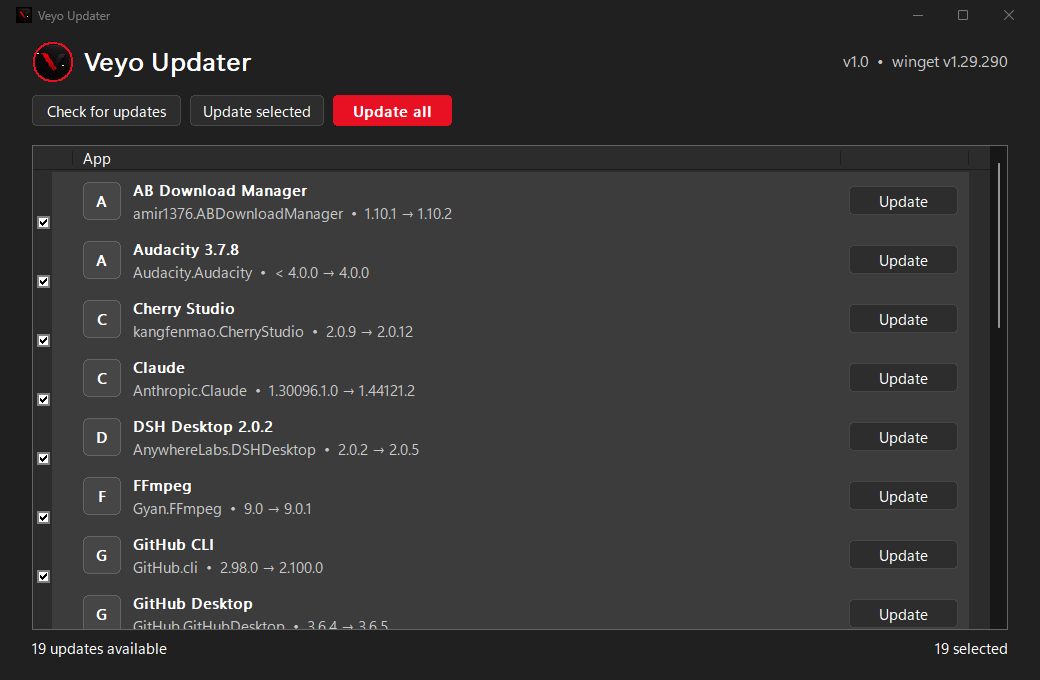
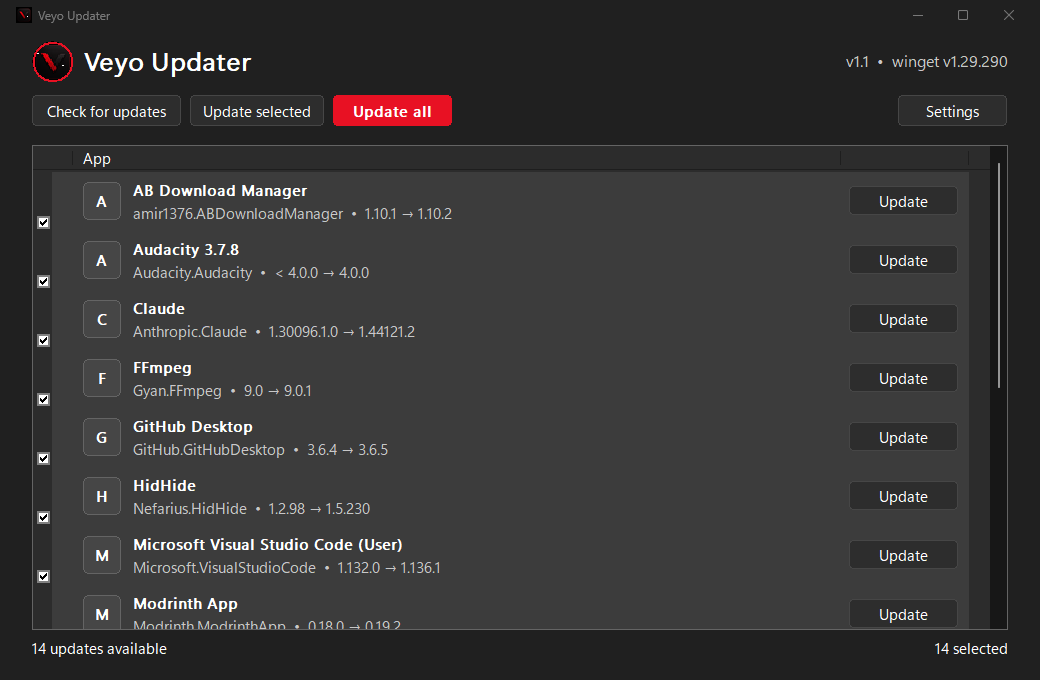
v1.1.0: Settings (timers, auto-shutdown), security hardening
- Settings dialog: download timer countdown, auto-check interval, finish action (nothing/close/shutdown), portable INI

- Security: unpredictable elevated-log names (symlink-safe), strict package-id allowlist, IniPath fallback, winget-missing warning

- Version 1.1.0

diff --git a/native/src/main.cpp b/native/src/main.cpp
@@ -11,6 +11,7 @@
 #include <uxtheme.h>
 #include <windowsx.h>
 #include <shellapi.h>
+#include "../resources/resource.h"
 #include <string>
 #include <vector>
 #include <algorithm>
@@ -19,6 +20,7 @@
 #include <iomanip>
 #include <regex>
 #include <cmath>
+#include <stdlib.h>
 
 #pragma comment(lib, "comctl32.lib")
 #pragma comment(lib, "dwmapi.lib")
@@ -97,7 +99,7 @@ struct Package {
     bool checked = true;
 };
 
-HWND hMain, hList, hRefresh, hUpgradeAll, hUpgradeSel, hStatus, hProgress, hCount;
+HWND hMain, hList, hRefresh, hUpgradeAll, hUpgradeSel, hStatus, hProgress, hCount, hSettings;
 HICON hAppIcon = nullptr;
 static void FitLastColumn();
 struct JobItem { std::wstring id, name; };
@@ -116,7 +118,7 @@ static int g_pendingRows = 0; // cascade insert progress
 static int g_spinAngle = 0; // loading spinner angle
 static HIMAGELIST g_hRowImg = nullptr; // forces tall Store-like rows
 struct BtnAnim { HWND hw = nullptr; float v = 0, target = 0; }; // v: 0 normal, 1 hover, 2 pressed
-static BtnAnim g_btns[3];
+static BtnAnim g_btns[4];
 static int g_rowBtnRow = -1; // list row whose Update button is fading
 static float g_rowBtnV = 0, g_rowBtnTarget = 0;
 
@@ -304,30 +306,45 @@ void SetLoading(bool b){
         if(g_packages.empty()) SetWindowTextW(hStatus,L"All apps are up to date");
         else { wchar_t t[64]; swprintf_s(t,L"%d updates available",(int)g_packages.size()); SetWindowTextW(hStatus,t); }
     }
-    if(b){ SendMessage(hProgress,PBM_SETMARQUEE,1,30); SetTimer(hMain,2,30,nullptr); }
+    if(b){ SendMessage(hProgress,PBM_SETMARQUEE,1,30); SetTimer(hMain,2,30,nullptr); KillTimer(hMain,5); }
     else { SendMessage(hProgress,PBM_SETMARQUEE,0,0); KillTimer(hMain,2); }
 }
 
 // Threads
 void DoCheck(){
     PostMessage(hMain, WM_APP+3, 0, 0); // loading UI on UI thread (never touch HWND from worker)
+    std::wstring ver = RunWinget(L"--version");
+    Trim(ver);
     std::wstring out = RunWinget(L"upgrade --accept-source-agreements");
     auto pkgs = ParseWingetOutput(out);
     // UI thread
     PostMessage(hMain, WM_APP+1, (WPARAM)new std::vector<Package>(pkgs), 0);
+    if (ver.empty())
+        PostMessage(hMain, WM_APP+7, 0, (LPARAM)new std::wstring(L"winget not found — install App Installer from the Microsoft Store."));
 }
 // ---- Elevated upgrade with live progress ----
 // winget needs admin for most upgrades: launch elevated via ShellExecuteEx "runas"
 // writing to a temp log, then tail that log for live stage/percent updates.
-static std::wstring LogPathFor(const std::wstring& id) {
+// Unpredictable per-run log name: a fixed %TEMP% name would let another local
+// user pre-plant a symlink and redirect the ELEVATED winget output anywhere.
+static std::wstring LogPathFor() {
     wchar_t tmp[MAX_PATH]; GetTempPathW(MAX_PATH, tmp);
-    std::wstring safe;
+    ULONGLONG r = ((ULONGLONG)GetCurrentProcessId() << 32) ^ GetTickCount64() ^ ((ULONGLONG)rand() << 48);
+    static volatile LONG ctr = 0;
+    r ^= (ULONGLONG)InterlockedIncrement(&ctr) * 0x9E3779B97F4A7C15ULL;
+    wchar_t rnd[32];
+    swprintf_s(rnd, L"%016llX", r);
+    return std::wstring(tmp) + L"veyo-updater-" + rnd + L".log";
+}
+
+// Strict allowlist for winget package ids: the id reaches an elevated
+// `cmd /c winget ...` line, so anything outside [A-Za-z0-9._-] is refused.
+static bool IsValidPackageId(const std::wstring& id) {
+    if (id.empty() || id.size() > 128) return false;
     for (auto c : id) {
-        if ((c >= L'0' && c <= L'9') || (c >= L'A' && c <= L'Z') || (c >= L'a' && c <= L'z') || c == L'.' || c == L'_' || c == L'-') safe += c;
-        else safe += L'_';
+        if (!((c >= L'0' && c <= L'9') || (c >= L'A' && c <= L'Z') || (c >= L'a' && c <= L'z') || c == L'.' || c == L'_' || c == L'-')) return false;
     }
-    if (safe.empty()) safe = L"all";
-    return std::wstring(tmp) + L"veyo-updater-" + safe + L".log";
+    return true;
 }
 
 static bool LaunchElevated(const std::wstring& wingetArgs, const std::wstring& logPath, HANDLE& hProc) {
@@ -424,7 +441,11 @@ static bool TailLogFile(HANDLE hProc, const std::wstring& logPath) {
 }
 
 static bool DoOneUpgrade(const std::wstring& id, const std::wstring& name, std::wstring& err) {
-    std::wstring log = LogPathFor(id == L"ALL" ? L"all" : id);
+    if (id != L"ALL" && !IsValidPackageId(id)) {
+        err = L"Refused to upgrade \"" + name + L"\": unexpected package id.";
+        return false;
+    }
+    std::wstring log = LogPathFor();
     DeleteFileW(log.c_str());
     std::wstring args;
     if (id == L"ALL") args = L"upgrade --all --silent --accept-package-agreements --accept-source-agreements --disable-interactivity";
@@ -536,7 +557,7 @@ static COLORREF BlendC(COLORREF a, COLORREF b, float t) {
 // Command-button hover/press fade driver
 static LRESULT CALLBACK BtnSubclass(HWND h, UINT m, WPARAM w, LPARAM l, UINT_PTR id, DWORD_PTR) {
     int idx = (int)id - 10;
-    if (idx >= 0 && idx < 3) {
+    if (idx >= 0 && idx < 4) {
         if (m == WM_MOUSEMOVE) {
             if (IsWindowEnabled(h) && g_btns[idx].target < 1.0f) { g_btns[idx].target = 1.0f; StartAnimTimer(); }
             TRACKMOUSEEVENT tme{ sizeof(tme), TME_LEAVE, h, 0 };
@@ -667,6 +688,114 @@ static void FitLastColumn() {
     }
 }
 
+// ---- Portable settings (VeyoUpdater.ini next to the exe) ----
+struct AppSettings {
+    bool autoUpdate = false;  // start updating automatically after countdown
+    int countdownSec = 60;    // download timer, seconds
+    bool autoCheck = false;   // check for updates periodically
+    int checkMinutes = 60;    // auto-check interval, minutes
+    int finishAction = 0;     // 0 nothing, 1 close app, 2 shut down PC
+};
+static AppSettings g_cfg;
+static int g_countdown = 0;
+static bool g_justUpgraded = false;
+
+static std::wstring IniPath() {
+    wchar_t p[MAX_PATH];
+    DWORD n = GetModuleFileNameW(nullptr, p, MAX_PATH);
+    std::wstring s;
+    if (n == 0 || n >= MAX_PATH) {
+        wchar_t t[MAX_PATH]; GetTempPathW(MAX_PATH, t);
+        s = t; // absurdly long exe path fallback: per-user temp dir
+    } else {
+        s = std::wstring(p, n);
+    }
+    size_t d = s.find_last_of(L"\\/");
+    return (d == std::wstring::npos ? s : s.substr(0, d + 1)) + L"VeyoUpdater.ini";
+}
+static void LoadSettings() {
+    std::wstring ini = IniPath();
+    g_cfg.autoUpdate = GetPrivateProfileIntW(L"Timers", L"AutoUpdate", 0, ini.c_str()) != 0;
+    g_cfg.countdownSec = (int)GetPrivateProfileIntW(L"Timers", L"CountdownSec", 60, ini.c_str());
+    g_cfg.autoCheck = GetPrivateProfileIntW(L"Timers", L"AutoCheck", 0, ini.c_str()) != 0;
+    g_cfg.checkMinutes = (int)GetPrivateProfileIntW(L"Timers", L"CheckMinutes", 60, ini.c_str());
+    g_cfg.finishAction = (int)GetPrivateProfileIntW(L"General", L"FinishAction", 0, ini.c_str());
+    if (g_cfg.countdownSec < 5) g_cfg.countdownSec = 5; if (g_cfg.countdownSec > 3600) g_cfg.countdownSec = 3600;
+    if (g_cfg.checkMinutes < 1) g_cfg.checkMinutes = 1; if (g_cfg.checkMinutes > 1440) g_cfg.checkMinutes = 1440;
+    if (g_cfg.finishAction < 0 || g_cfg.finishAction > 2) g_cfg.finishAction = 0;
+}
+static void SaveSettings() {
+    std::wstring ini = IniPath();
+    wchar_t b[32];
+    WritePrivateProfileStringW(L"Timers", L"AutoUpdate", g_cfg.autoUpdate ? L"1" : L"0", ini.c_str());
+    swprintf_s(b, L"%d", g_cfg.countdownSec);
+    WritePrivateProfileStringW(L"Timers", L"CountdownSec", b, ini.c_str());
+    WritePrivateProfileStringW(L"Timers", L"AutoCheck", g_cfg.autoCheck ? L"1" : L"0", ini.c_str());
+    swprintf_s(b, L"%d", g_cfg.checkMinutes);
+    WritePrivateProfileStringW(L"Timers", L"CheckMinutes", b, ini.c_str());
+    swprintf_s(b, L"%d", g_cfg.finishAction);
+    WritePrivateProfileStringW(L"General", L"FinishAction", b, ini.c_str());
+}
+static void ApplyCheckTimer() {
+    if (!hMain) return;
+    KillTimer(hMain, 6);
+    if (g_cfg.autoCheck && g_cfg.checkMinutes > 0)
+        SetTimer(hMain, 6, (UINT)g_cfg.checkMinutes * 60000, nullptr);
+}
+
+static INT_PTR CALLBACK SettingsDlgProc(HWND hDlg, UINT m, WPARAM wParam, LPARAM lParam) {
+    (void)lParam;
+    switch (m) {
+    case WM_INITDIALOG: {
+        CheckDlgButton(hDlg, IDC_CHK_AUTOUPDATE, g_cfg.autoUpdate ? BST_CHECKED : BST_UNCHECKED);
+        SetDlgItemInt(hDlg, IDC_EDT_COUNTDOWN, (UINT)g_cfg.countdownSec, FALSE);
+        CheckDlgButton(hDlg, IDC_CHK_AUTOCHECK, g_cfg.autoCheck ? BST_CHECKED : BST_UNCHECKED);
+        SetDlgItemInt(hDlg, IDC_EDT_INTERVAL, (UINT)g_cfg.checkMinutes, FALSE);
+        SendDlgItemMessageW(hDlg, IDC_CMB_FINISH, CB_ADDSTRING, 0, (LPARAM)L"Do nothing");
+        SendDlgItemMessageW(hDlg, IDC_CMB_FINISH, CB_ADDSTRING, 0, (LPARAM)L"Close the app");
+        SendDlgItemMessageW(hDlg, IDC_CMB_FINISH, CB_ADDSTRING, 0, (LPARAM)L"Shut down the computer");
+        SendDlgItemMessageW(hDlg, IDC_CMB_FINISH, CB_SETCURSEL, (WPARAM)g_cfg.finishAction, 0);
+        EnableWindow(GetDlgItem(hDlg, IDC_EDT_COUNTDOWN), g_cfg.autoUpdate);
+        EnableWindow(GetDlgItem(hDlg, IDC_EDT_INTERVAL), g_cfg.autoCheck);
+        return TRUE;
+    }
+    case WM_COMMAND: {
+        int id = LOWORD(wParam), code = HIWORD(wParam);
+        if ((id == IDC_CHK_AUTOUPDATE || id == IDC_CHK_AUTOCHECK) && code == BN_CLICKED) {
+            bool on = IsDlgButtonChecked(hDlg, id) == BST_CHECKED;
+            EnableWindow(GetDlgItem(hDlg, id == IDC_CHK_AUTOUPDATE ? IDC_EDT_COUNTDOWN : IDC_EDT_INTERVAL), on);
+            return TRUE;
+        }
+        if (id == IDOK) {
+            BOOL ok1 = FALSE, ok2 = FALSE;
+            UINT cd = GetDlgItemInt(hDlg, IDC_EDT_COUNTDOWN, &ok1, FALSE);
+            UINT iv = GetDlgItemInt(hDlg, IDC_EDT_INTERVAL, &ok2, FALSE);
+            if (!ok1) cd = 60; if (!ok2) iv = 60;
+            if (cd < 5) cd = 5; if (cd > 3600) cd = 3600;
+            if (iv < 1) iv = 1; if (iv > 1440) iv = 1440;
+            g_cfg.autoUpdate = IsDlgButtonChecked(hDlg, IDC_CHK_AUTOUPDATE) == BST_CHECKED;
+            g_cfg.countdownSec = (int)cd;
+            g_cfg.autoCheck = IsDlgButtonChecked(hDlg, IDC_CHK_AUTOCHECK) == BST_CHECKED;
+            g_cfg.checkMinutes = (int)iv;
+            int sel = (int)SendDlgItemMessageW(hDlg, IDC_CMB_FINISH, CB_GETCURSEL, 0, 0);
+            g_cfg.finishAction = (sel < 0) ? 0 : (sel > 2 ? 2 : sel);
+            SaveSettings();
+            ApplyCheckTimer();
+            KillTimer(hMain, 5);
+            if (g_cfg.autoUpdate && !g_packages.empty() && !g_loading) {
+                g_countdown = g_cfg.countdownSec;
+                SetTimer(hMain, 5, 1000, nullptr);
+            }
+            EndDialog(hDlg, IDOK);
+            return TRUE;
+        }
+        if (id == IDCANCEL) { EndDialog(hDlg, IDCANCEL); return TRUE; }
+        break;
+    }
+    }
+    return FALSE;
+}
+
 // WndProc
 LRESULT CALLBACK WndProc(HWND hWnd, UINT msg, WPARAM wParam, LPARAM lParam){
     switch(msg){
@@ -699,10 +828,12 @@ LRESULT CALLBACK WndProc(HWND hWnd, UINT msg, WPARAM wParam, LPARAM lParam){
         hRefresh = CreateWindowW(L"BUTTON", L"Check for updates", WS_CHILD|WS_VISIBLE|BS_OWNERDRAW, 0,0,0,0, hWnd, (HMENU)1002,nullptr,nullptr);
         hUpgradeSel = CreateWindowW(L"BUTTON", L"Update selected", WS_CHILD|WS_VISIBLE|BS_OWNERDRAW,0,0,0,0,hWnd,(HMENU)1003,nullptr,nullptr);
         hUpgradeAll = CreateWindowW(L"BUTTON", L"Update all", WS_CHILD|WS_VISIBLE|BS_OWNERDRAW,0,0,0,0,hWnd,(HMENU)1004,nullptr,nullptr);
-        g_btns[0].hw = hRefresh; g_btns[1].hw = hUpgradeSel; g_btns[2].hw = hUpgradeAll;
+        hSettings = CreateWindowW(L"BUTTON", L"Settings", WS_CHILD|WS_VISIBLE|BS_OWNERDRAW,0,0,0,0,hWnd,(HMENU)1005,nullptr,nullptr);
+        g_btns[0].hw = hRefresh; g_btns[1].hw = hUpgradeSel; g_btns[2].hw = hUpgradeAll; g_btns[3].hw = hSettings;
         SetWindowSubclass(hRefresh, BtnSubclass, 10, 0);
         SetWindowSubclass(hUpgradeSel, BtnSubclass, 11, 0);
         SetWindowSubclass(hUpgradeAll, BtnSubclass, 12, 0);
+        SetWindowSubclass(hSettings, BtnSubclass, 13, 0);
 
         // Progress - thin accent bar like Store (marquee)
         hProgress = CreateWindowW(PROGRESS_CLASSW, L"", WS_CHILD|PBS_MARQUEE|PBS_SMOOTH,0,0,0,0,hWnd,nullptr,nullptr,nullptr);
@@ -753,8 +884,10 @@ LRESULT CALLBACK WndProc(HWND hWnd, UINT msg, WPARAM wParam, LPARAM lParam){
         SetTimer(hWnd,1,400,nullptr);
         // Explicit initial layout (AnimateWindow show path may not send WM_SIZE)
         RECT crc; GetClientRect(hWnd, &crc);
-        SendMessage(hWnd, WM_SIZE, (WPARAM)SIZE_RESTORED, MAKELPARAM(crc.right - crc.left, crc.bottom - crc.top));
-        return 0;
+          SendMessage(hWnd, WM_SIZE, (WPARAM)SIZE_RESTORED, MAKELPARAM(crc.right - crc.left, crc.bottom - crc.top));
+          LoadSettings();
+          if (g_cfg.autoCheck) SetTimer(hWnd, 6, (UINT)g_cfg.checkMinutes * 60000, nullptr);
+          return 0;
     }
     case WM_TIMER:
         if(wParam==1){ KillTimer(hWnd,1); if(!g_loading) std::thread(DoCheck).detach(); }
@@ -800,6 +933,20 @@ LRESULT CALLBACK WndProc(HWND hWnd, UINT msg, WPARAM wParam, LPARAM lParam){
             }
             if (!active) KillTimer(hWnd, 4);
         }
+        else if(wParam==5){ // auto-update countdown tick (1s)
+            if (g_loading || g_packages.empty()) { KillTimer(hWnd, 5); }
+            else if (--g_countdown <= 0) {
+                KillTimer(hWnd, 5);
+                std::thread(UpgradeAllThread).detach();
+            } else {
+                wchar_t t[128];
+                swprintf_s(t, L"Auto-update in %ds...", g_countdown);
+                SetWindowTextW(hStatus, t);
+            }
+        }
+        else if(wParam==6){ // auto-check interval
+            if(!g_loading) std::thread(DoCheck).detach();
+        }
         return 0;
     case WM_GETMINMAXINFO:{
         LPMINMAXINFO mmi = (LPMINMAXINFO)lParam;
@@ -819,12 +966,14 @@ LRESULT CALLBACK WndProc(HWND hWnd, UINT msg, WPARAM wParam, LPARAM lParam){
         const int btnW1 = 150;  // Check for updates
         const int btnW2 = 135;  // Update selected
         const int btnW3 = 120;  // Update all (accent)
+        const int btnW4 = 110;  // Settings (pinned right)
         int x = pad;
         MoveWindow(hRefresh, x, cmdY, btnW1, cmdH, TRUE);
         x += btnW1 + gap;
         MoveWindow(hUpgradeSel, x, cmdY, btnW2, cmdH, TRUE);
         x += btnW2 + gap;
         MoveWindow(hUpgradeAll, x, cmdY, btnW3, cmdH, TRUE);
+        MoveWindow(hSettings, W - pad - btnW4, cmdY, btnW4, cmdH, TRUE);
         // thin progress under command bar
         MoveWindow(hProgress, pad, cmdY + cmdH + 6, W - pad*2, 4, TRUE);
         // Slim bottom status bar like real Windows apps (left status + right count)
@@ -990,6 +1139,9 @@ LRESULT CALLBACK WndProc(HWND hWnd, UINT msg, WPARAM wParam, LPARAM lParam){
     }
     case WM_COMMAND:{
         int id=LOWORD(wParam), code=HIWORD(wParam);
+        if(id==1005){ // settings
+            DialogBoxW(GetModuleHandleW(nullptr), MAKEINTRESOURCEW(IDD_SETTINGS), hWnd, SettingsDlgProc);
+        }
         if(id==1002){ // refresh
             if(!g_loading) std::thread(DoCheck).detach();
         }
@@ -1054,21 +1206,43 @@ LRESULT CALLBACK WndProc(HWND hWnd, UINT msg, WPARAM wParam, LPARAM lParam){
         delete pl;
         return 0;
     }
+    case WM_APP+7:{ // fatal status (e.g. winget missing): overrides the status line
+        std::wstring *s = (std::wstring*)lParam;
+        SetLoading(false);
+        SetWindowTextW(hStatus, s->c_str());
+        delete s;
+        return 0;
+    }
     case WM_APP+1:{ // check finished
         auto *pkgs = (std::vector<Package>*)wParam;
         PopulateList(*pkgs);
         SetLoading(false);
         if(pkgs->empty()) SetWindowTextW(hStatus,L"All apps are up to date");
         delete pkgs;
+        if (g_justUpgraded) { g_justUpgraded = false; }
+        else if (g_cfg.autoUpdate && !g_packages.empty() && !g_loading) {
+            g_countdown = g_cfg.countdownSec;
+            SetTimer(hWnd, 5, 1000, nullptr);
+            wchar_t t[128];
+            swprintf_s(t, L"Auto-update in %ds...", g_countdown);
+            SetWindowTextW(hStatus, t);
+        }
         return 0;
     }
     case WM_APP+2:{ // upgrade finished
         bool ok = wParam!=0;
         auto *out = (std::wstring*)lParam;
         SetLoading(false);
-        if(ok) {
+        if(ok && g_cfg.finishAction == 2) {
+            MessageBoxW(hWnd, L"All updates finished.\n\nThe computer will shut down in 60 seconds.\nRun \"shutdown /a\" to abort.", L"Veyo Updater", MB_OK | MB_ICONINFORMATION);
+            ShellExecuteW(hWnd, L"open", L"shutdown.exe", L"/s /t 60 /c \"Veyo Updater finished all updates\"", nullptr, SW_HIDE);
+        } else if(ok && g_cfg.finishAction == 1) {
+            MessageBoxW(hWnd, L"All updates finished. The app will now close.", L"Veyo Updater", MB_OK | MB_ICONINFORMATION);
+            PostMessage(hWnd, WM_CLOSE, 0, 0);
+        } else if(ok) {
             SetWindowTextW(hStatus,L"Update finished. Refreshing...");
             MessageBoxW(hWnd, L"Update completed. Refreshing list.", L"Success", MB_OK);
+            g_justUpgraded = true;
             std::thread(DoCheck).detach();
         } else {
             MessageBoxW(hWnd, out->c_str(), L"Result", MB_OK);
@@ -1086,7 +1260,7 @@ LRESULT CALLBACK WndProc(HWND hWnd, UINT msg, WPARAM wParam, LPARAM lParam){
     case WM_DRAWITEM:{
         LPDRAWITEMSTRUCT ds=(LPDRAWITEMSTRUCT)lParam;
         HWND hw = (HWND)ds->hwndItem;
-        if(hw==hUpgradeAll || hw==hRefresh || hw==hUpgradeSel){
+        if(hw==hUpgradeAll || hw==hRefresh || hw==hUpgradeSel || hw==hSettings){
             bool isPrimary = (hw==hUpgradeAll);
             bool pressed = (ds->itemState & ODS_SELECTED);
             bool disabled = (ds->itemState & ODS_DISABLED);
@@ -1176,7 +1350,7 @@ LRESULT CALLBACK WndProc(HWND hWnd, UINT msg, WPARAM wParam, LPARAM lParam){
         SelectObject(hdc,hFontTitle);
         SetTextColor(hdc, CLR_TEXT);
         DrawTextW(hdc,L"Veyo Updater",-1,&tR,DT_LEFT|DT_VCENTER|DT_SINGLELINE|DT_END_ELLIPSIS);
-        std::wstring verTxt = L"v1.0";
+        std::wstring verTxt = L"v1.1";
         if (!g_wingetVer.empty()) verTxt += L"  •  winget " + g_wingetVer;
         RECT vR{rc.right - pad - 220, 8, rc.right - pad, 52};
         SelectObject(hdc,hFontSmall);

diff --git a/resources/resource.h b/resources/resource.h
@@ -1,0 +1,11 @@
+#pragma once
+// Veyo Updater dialog/control IDs (must match app.rc)
+#ifndef IDC_STATIC
+#define IDC_STATIC -1
+#endif
+#define IDD_SETTINGS        201
+#define IDC_CHK_AUTOUPDATE  210
+#define IDC_EDT_COUNTDOWN   211
+#define IDC_CHK_AUTOCHECK   212
+#define IDC_EDT_INTERVAL    213
+#define IDC_CMB_FINISH      214

diff --git a/README.md b/README.md
@@ -9,6 +9,7 @@ Portable single-file Windows updater powered by `winget`. No installation, no ba
 - **Automatic check** — lists every package with an available `winget upgrade`, using a robust fixed-width table parser (handles long names like `Eclipse Temurin JDK…`, BOM, `\r\n`)
 - **Per-app Update buttons** — Store-style rows: icon, name, `id • current → available`
 - **Batch updates** — Update selected / Update all
+- **Settings** — download timer (auto-start countdown), auto-check interval, and finish action (nothing / close app / shut down PC); stored portably in `VeyoUpdater.ini` next to the exe
 - **Always elevated** — every upgrade runs via UAC (`runas`); cancelling shows a clear message instead of failing silently
 - **Live progress** — stage (`Preparing → Downloading → Installing → Done`) + smooth percent bar + per-app counter, parsed live from the winget log
 - **Animations** — fade in/out, staggered row entrance, loading spinner around the logo, fading buttons
